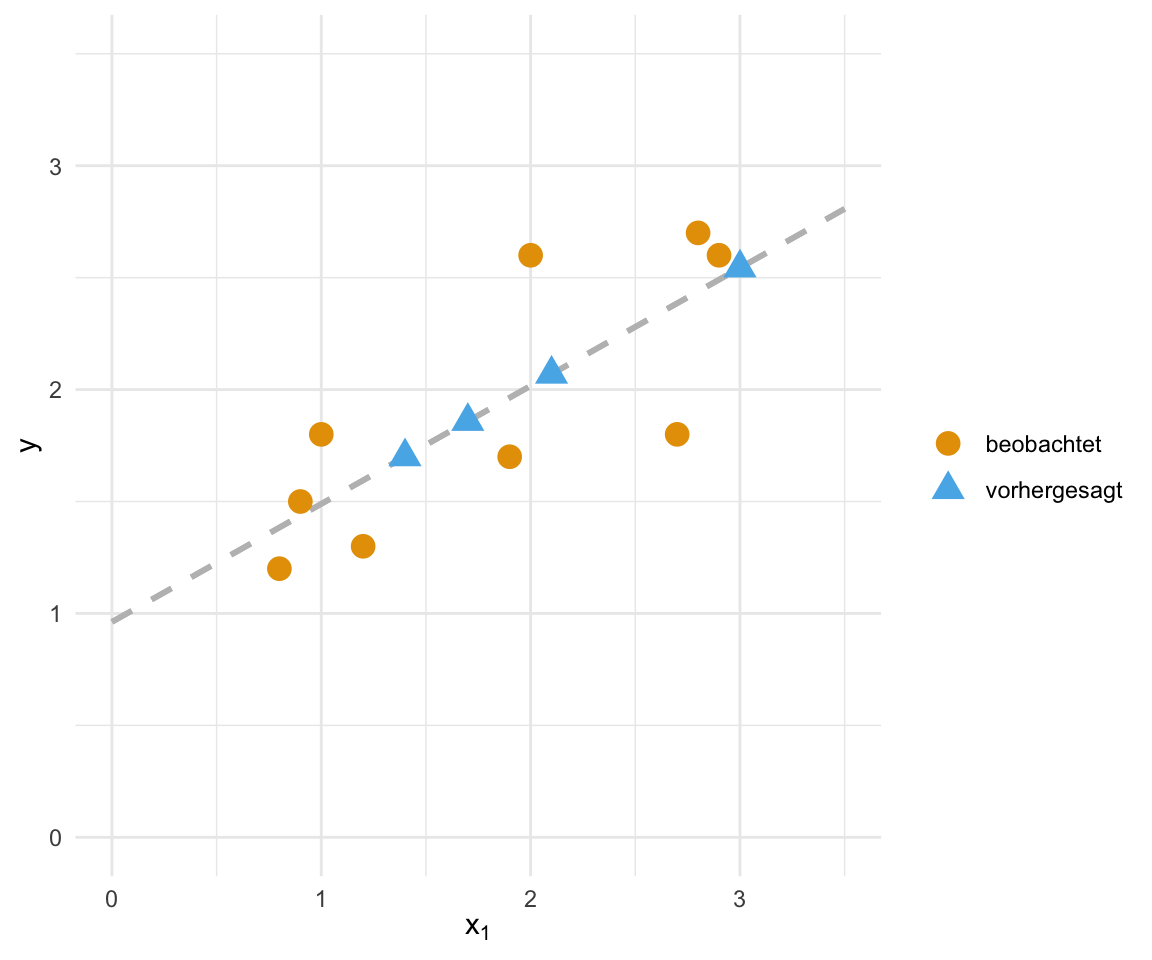
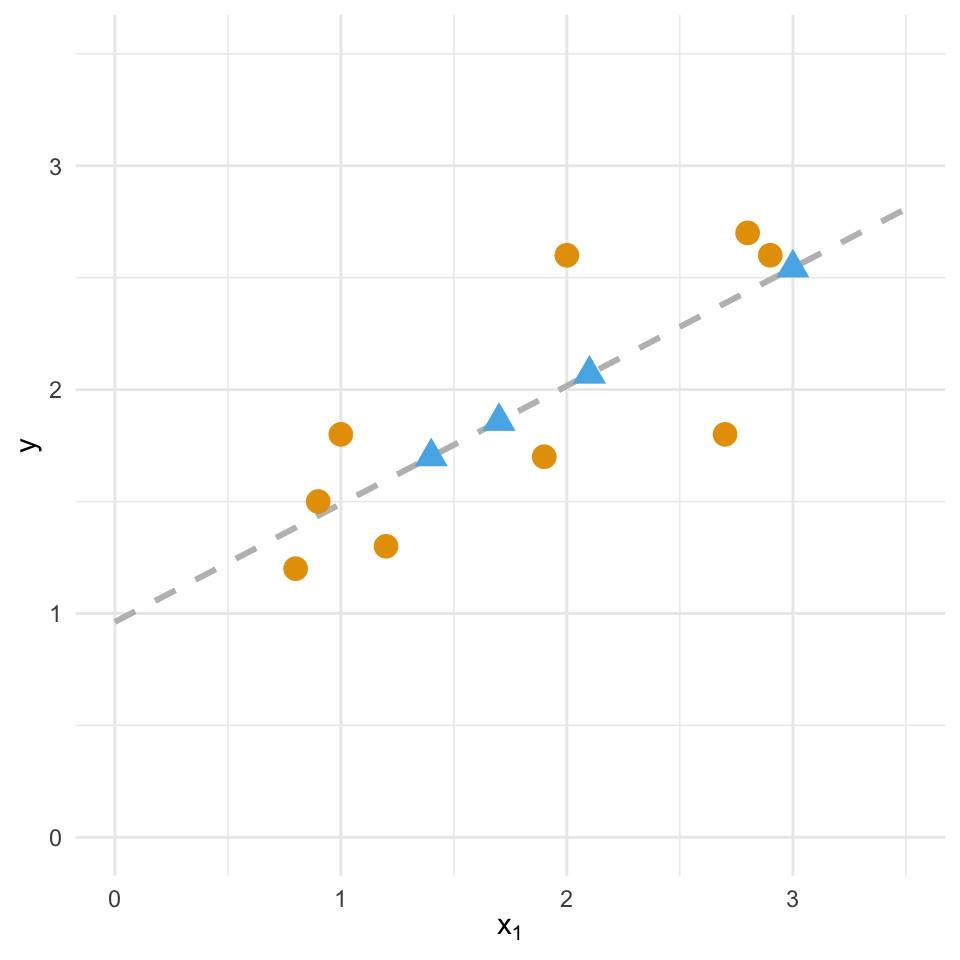
added

diff --git a/docs/stat-modeling-R.html b/docs/stat-modeling-R.html
@@ -797,7 +797,7 @@ window.Quarto = {
 <div class="toc-actions"><ul><li><a href="https://github.com/jkruppa/jkruppa.github.io/edit/master/stat-modeling-R.qmd" class="toc-action"><i class="bi bi-github"></i>Seite editieren</a></li><li><a href="https://github.com/jkruppa/jkruppa.github.io/issues/new" class="toc-action"><i class="bi empty"></i>Problem melden</a></li><li><a href="https://github.com/jkruppa/jkruppa.github.io/blob/master/stat-modeling-R.qmd" class="toc-action"><i class="bi empty"></i>Quellcode anzeigen</a></li></ul></div></nav>
     </div>
 <!-- main -->
-<main class="content" id="quarto-document-content">
+<main class="content page-columns page-full" id="quarto-document-content">
 
 <header id="title-block-header" class="quarto-title-block default"><nav class="quarto-page-breadcrumbs quarto-title-breadcrumbs d-none d-lg-block" aria-label="breadcrumb"><ol class="breadcrumb"><li class="breadcrumb-item"><a href="./stat-modeling-preface.html">Statistisches Modellieren</a></li><li class="breadcrumb-item"><a href="./stat-modeling-R.html"><span class="chapter-number">45</span>&nbsp; <span class="chapter-title">Modellieren in R</span></a></li></ol></nav>
 <div class="quarto-title">
@@ -818,7 +818,7 @@ window.Quarto = {
 </header>
 
 
-<p><em>Letzte Änderung am 28. March 2024 um 19:05:39</em></p>
+<p><em>Letzte Änderung am 28. March 2024 um 19:08:30</em></p>
 <blockquote class="blockquote">
 <p><em>“Ich weiß nicht weiter; Ich will mich verändern; Doch wie fang ich’s an?” — Tocotronic, Die Unendlichkeit</em></p>
 </blockquote>
@@ -838,16 +838,16 @@ window.Quarto = {
 </dd>
 </dl>
 <p>In diesem Kapitel wollen wir uns auch mit dem Thema marginale Effektmodelle (eng. <em>marginal effect models</em>) beschäftigen. Auch hier ist der deutsche Begriff nicht gebräuchlich, so dass ich mich hier dann immer auf die <em>marginal effect models</em> beziehen werde.</p>
-<div class="cell" data-layout-nrow="1" data-layout-align="center">
-<div id="fig-scatter-modeling-R-01" class="quarto-layout-panel">
-<figure class="quarto-float quarto-float-fig figure">
-<div aria-describedby="fig-scatter-modeling-R-01-caption-0ceaefa1-69ba-4598-a22c-09a6ac19f8ca">
-<div class="quarto-layout-row">
-<div class="cell-output-display quarto-layout-cell-subref quarto-layout-cell" data-ref-parent="fig-scatter-modeling-R-01" style="flex-basis: 33.3%;justify-content: center;">
-<div id="fig-scatter-modeling-R-01-1" class="quarto-figure quarto-figure-center quarto-float anchored" data-fig-align="center">
-<figure class="quarto-float quarto-subfloat-fig figure">
-<div aria-describedby="fig-scatter-modeling-R-01-1-caption-0ceaefa1-69ba-4598-a22c-09a6ac19f8ca">
-<a href="stat-modeling-R_files/figure-html/fig-scatter-modeling-R-01-1.png" class="lightbox" data-glightbox="description: .lightbox-desc-2" data-gallery="fig-scatter-modeling-R-01"><img src="stat-modeling-R_files/figure-html/fig-scatter-modeling-R-01-1.png" class="img-fluid quarto-figure quarto-figure-center figure-img" data-ref-parent="fig-scatter-modeling-R-01" width="576"></a>
+<div class="cell page-columns page-full" data-layout-nrow="1" data-layout-align="center">
+<div id="fig-scatter-modeling-R-01" class="quarto-layout-panel page-columns page-full">
+<figure class="quarto-float quarto-float-fig figure page-columns page-full">
+<div aria-describedby="fig-scatter-modeling-R-01-caption-0ceaefa1-69ba-4598-a22c-09a6ac19f8ca" class="page-columns page-full">
+<div class="quarto-layout-row page-columns page-full">
+<div class="cell-output-display quarto-layout-cell-subref quarto-layout-cell page-columns page-full" data-ref-parent="fig-scatter-modeling-R-01" style="flex-basis: 33.3%;justify-content: center;">
+<div id="fig-scatter-modeling-R-01-1" class="quarto-figure quarto-figure-center quarto-float anchored page-columns page-full" data-fig-align="center">
+<figure class="quarto-float quarto-subfloat-fig figure page-columns page-full">
+<div aria-describedby="fig-scatter-modeling-R-01-1-caption-0ceaefa1-69ba-4598-a22c-09a6ac19f8ca" class="page-columns page-full">
+<a href="stat-modeling-R_files/figure-html/fig-scatter-modeling-R-01-1.png" class="lightbox page-columns page-full" data-glightbox="description: .lightbox-desc-2" data-gallery="fig-scatter-modeling-R-01"><img src="stat-modeling-R_files/figure-html/fig-scatter-modeling-R-01-1.png" class="img-fluid quarto-figure quarto-figure-center figure-img column-page" data-ref-parent="fig-scatter-modeling-R-01" width="480"></a>
 </div>
 <figcaption class="quarto-float-caption-bottom quarto-subfloat-caption quarto-subfloat-fig" id="fig-scatter-modeling-R-01-1-caption-0ceaefa1-69ba-4598-a22c-09a6ac19f8ca">
 (a) Kausales Modell – Wie verändert sich <span class="math inline">\(y\)</span>, wenn sich <span class="math inline">\(x_1\)</span> ändert? Wie ist der numerische Zusammenhang zwischen <span class="math inline">\(y\)</span> und <span class="math inline">\(x\)</span>?
@@ -855,11 +855,11 @@ window.Quarto = {
 </figure>
 </div>
 </div>
-<div class="cell-output-display quarto-layout-cell-subref quarto-layout-cell" data-ref-parent="fig-scatter-modeling-R-01" style="flex-basis: 33.3%;justify-content: center;">
-<div id="fig-scatter-modeling-R-01-2" class="quarto-figure quarto-figure-center quarto-float anchored" data-fig-align="center">
-<figure class="quarto-float quarto-subfloat-fig figure">
-<div aria-describedby="fig-scatter-modeling-R-01-2-caption-0ceaefa1-69ba-4598-a22c-09a6ac19f8ca">
-<a href="stat-modeling-R_files/figure-html/fig-scatter-modeling-R-01-2.png" class="lightbox" data-glightbox="description: .lightbox-desc-3" data-gallery="fig-scatter-modeling-R-01"><img src="stat-modeling-R_files/figure-html/fig-scatter-modeling-R-01-2.png" class="img-fluid quarto-figure quarto-figure-center figure-img" data-ref-parent="fig-scatter-modeling-R-01" width="576"></a>
+<div class="cell-output-display quarto-layout-cell-subref quarto-layout-cell page-columns page-full" data-ref-parent="fig-scatter-modeling-R-01" style="flex-basis: 33.3%;justify-content: center;">
+<div id="fig-scatter-modeling-R-01-2" class="quarto-figure quarto-figure-center quarto-float anchored page-columns page-full" data-fig-align="center">
+<figure class="quarto-float quarto-subfloat-fig figure page-columns page-full">
+<div aria-describedby="fig-scatter-modeling-R-01-2-caption-0ceaefa1-69ba-4598-a22c-09a6ac19f8ca" class="page-columns page-full">
+<a href="stat-modeling-R_files/figure-html/fig-scatter-modeling-R-01-2.png" class="lightbox page-columns page-full" data-glightbox="description: .lightbox-desc-3" data-gallery="fig-scatter-modeling-R-01"><img src="stat-modeling-R_files/figure-html/fig-scatter-modeling-R-01-2.png" class="img-fluid quarto-figure quarto-figure-center figure-img column-page" data-ref-parent="fig-scatter-modeling-R-01" width="480"></a>
 </div>
 <figcaption class="quarto-float-caption-bottom quarto-subfloat-caption quarto-subfloat-fig" id="fig-scatter-modeling-R-01-2-caption-0ceaefa1-69ba-4598-a22c-09a6ac19f8ca">
 (b) Prädikitives Modell – Wenn <span class="math inline">\(y\)</span> und <span class="math inline">\(x\)</span> gemessen wurden, wie sehen dann die Werte von <span class="math inline">\(y\)</span> für neue <span class="math inline">\(x\)</span>-Werte aus? Können wir mit <span class="math inline">\(x\)</span> die Werte in <span class="math inline">\(y\)</span> vorhersagen?
@@ -867,11 +867,11 @@ window.Quarto = {
 </figure>
 </div>
 </div>
-<div class="cell-output-display quarto-layout-cell-subref quarto-layout-cell" data-ref-parent="fig-scatter-modeling-R-01" style="flex-basis: 33.3%;justify-content: center;">
-<div id="fig-scatter-modeling-R-01-3" class="quarto-figure quarto-figure-center quarto-float anchored" data-fig-align="center">
-<figure class="quarto-float quarto-subfloat-fig figure">
-<div aria-describedby="fig-scatter-modeling-R-01-3-caption-0ceaefa1-69ba-4598-a22c-09a6ac19f8ca">
-<a href="stat-modeling-R_files/figure-html/fig-scatter-modeling-R-01-3.png" class="lightbox" data-glightbox="description: .lightbox-desc-4" data-gallery="fig-scatter-modeling-R-01"><img src="stat-modeling-R_files/figure-html/fig-scatter-modeling-R-01-3.png" class="img-fluid quarto-figure quarto-figure-center figure-img" data-ref-parent="fig-scatter-modeling-R-01" width="576"></a>
+<div class="cell-output-display quarto-layout-cell-subref quarto-layout-cell page-columns page-full" data-ref-parent="fig-scatter-modeling-R-01" style="flex-basis: 33.3%;justify-content: center;">
+<div id="fig-scatter-modeling-R-01-3" class="quarto-figure quarto-figure-center quarto-float anchored page-columns page-full" data-fig-align="center">
+<figure class="quarto-float quarto-subfloat-fig figure page-columns page-full">
+<div aria-describedby="fig-scatter-modeling-R-01-3-caption-0ceaefa1-69ba-4598-a22c-09a6ac19f8ca" class="page-columns page-full">
+<a href="stat-modeling-R_files/figure-html/fig-scatter-modeling-R-01-3.png" class="lightbox page-columns page-full" data-glightbox="description: .lightbox-desc-4" data-gallery="fig-scatter-modeling-R-01"><img src="stat-modeling-R_files/figure-html/fig-scatter-modeling-R-01-3.png" class="img-fluid quarto-figure quarto-figure-center figure-img column-page" data-ref-parent="fig-scatter-modeling-R-01" width="480"></a>
 </div>
 <figcaption class="quarto-float-caption-bottom quarto-subfloat-caption quarto-subfloat-fig" id="fig-scatter-modeling-R-01-3-caption-0ceaefa1-69ba-4598-a22c-09a6ac19f8ca">
 (c) Clusteranalyse – Haben wir in unseren Variablen <span class="math inline">\(x_1\)</span> und <span class="math inline">\(x_2\)</span> eine oder mehrere unbekannte Cluster vorliegen? Wie gehören die Beobachtungen gegeben <span class="math inline">\(x_1\)</span> und <span class="math inline">\(x_2\)</span> zusammen?
@@ -1995,7 +1995,7 @@ window.document.addEventListener("DOMContentLoaded", function (event) {
 </div>
   </div>
 </footer>
-<script>var lightboxQuarto = GLightbox({"openEffect":"zoom","descPosition":"bottom","loop":false,"closeEffect":"zoom","selector":".lightbox"});
+<script>var lightboxQuarto = GLightbox({"closeEffect":"zoom","loop":false,"selector":".lightbox","descPosition":"bottom","openEffect":"zoom"});
 window.onload = () => {
   lightboxQuarto.on('slide_before_load', (data) => {
     const { slideIndex, slideNode, slideConfig, player, trigger } = data;
